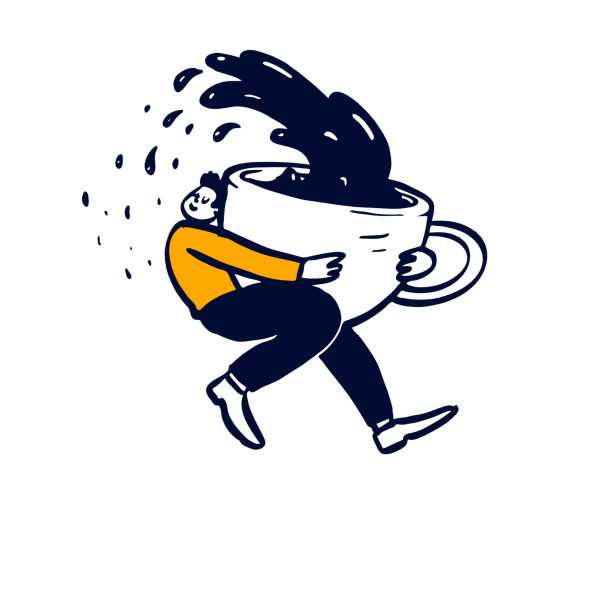
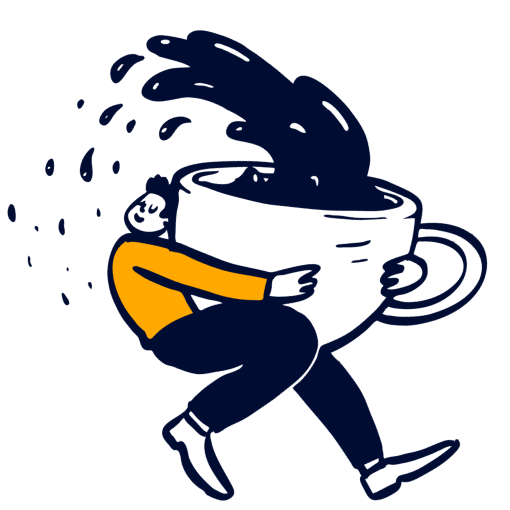
Feat: added responsive join 768

diff --git a/src/pages/join/join.css b/src/pages/join/join.css
@@ -1,14 +1,16 @@
 .Join-container {
   display: flex;
   width: 100%;
-  height: 548px;
-  padding: 70px 100px 12px 100px;
+  /* height: 548px; */
+  padding: 35px 100px 86px 100px;
   justify-content: space-between;
 }
 
 .Join-box {
   width: 603px;
-  /* height: 364px; */
+  display: flex;
+  justify-content: center;
+  flex-direction: column;
 }
 
 .Join-title {
@@ -34,7 +36,7 @@
 
 .Join-responsive-image {
   width: 550.56px;
-  height: 600.92px;
+  height: 515px;
   /* background: url(CoffeeDoddle(1).png); */
   /* transform: rotate(0.75deg); */
   margin-top: -20px;
@@ -62,4 +64,21 @@
   text-align: center;
   color: #01030f;
   text-decoration: none;
+}
+
+@media (max-width: 1200px) {
+  .Join-container {
+    flex-direction: column;
+    justify-content: center;
+    align-items: center;
+  }
+}
+
+@media (max-width: 768px) {
+  .Join-responsive-image {
+    margin-top: 20px;
+  }
+  .Join-container {
+    padding: 37px 40px;
+  }
 }

diff --git a/src/components/Hero/hero.css b/src/components/Hero/hero.css
@@ -50,16 +50,20 @@
 .hero-btn {
   background-color: #ffa800;
   padding: 20px 35px;
-  border-radius: 16px;
-  font-family: var(--thirdFont);
-  font-size: 20px;
-  font-weight: 400;
-  line-height: 28px;
+  border-radius: 8px;
   margin-top: 24px;
   width: 281px;
   height: 68px;
   cursor: pointer;
   border: none;
+  font-family: var(--thirdFont);
+  font-size: 20px;
+  font-weight: 400;
+  line-height: 28px;
+}
+
+.hero-btn a {
+  text-decoration: none;
 }
 
 @media (max-width: 1024px) {

diff --git a/src/components/Hero/Hero.jsx b/src/components/Hero/Hero.jsx
@@ -10,7 +10,9 @@ export default function Hero() {
           <h1 className="hero-main_title">Vamos expandir seu negócio?</h1>
           <h2 className="hero-sub_title">Torne ele online!</h2>
           <div className="hero-btn_box">
-            <button className="hero-btn">COMECE AGORA</button>
+            <button className="hero-btn">
+              <a href="#contact">COMECE AGORA</a>
+            </button>
           </div>
         </div>
         <div className="hero-box_image">
